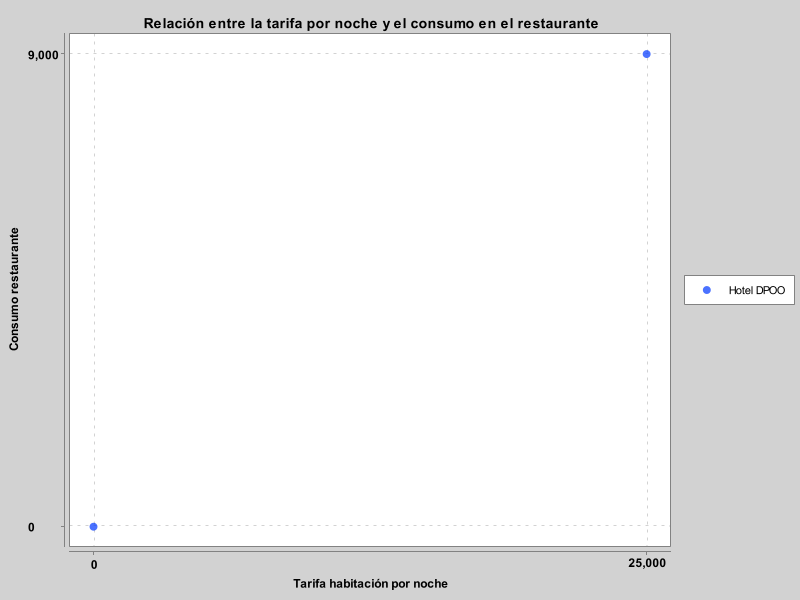
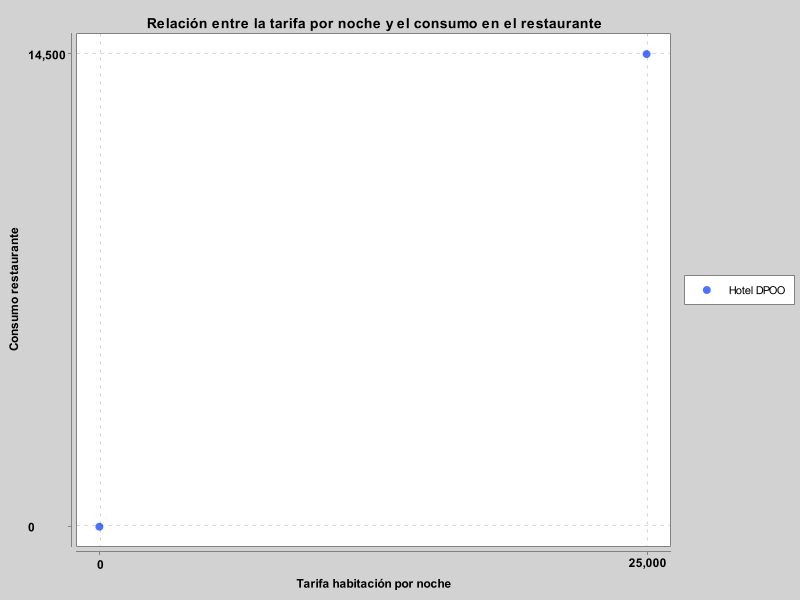
Ahora sí, felices vacaciones!

diff --git a/Entrega Final/Proyecto1_Hotel/src/Model/Hotel.java b/Entrega Final/Proyecto1_Hotel/src/Model/Hotel.java
@@ -103,11 +103,11 @@ public class Hotel {
 	}
 	
 	public void registrarRelacion(double tarifa, double consumo) {
-		this.relacionPrecioRestauranteHabitacion.put(tarifa, consumo);
+		this.relacionPrecioRestauranteHabitacion.put(tarifa, relacionPrecioRestauranteHabitacion.get(tarifa) + consumo);
 	}
 	
 	public void registrarRelacionServicio(double tarifa, double precioServicio) {
-		this.relacionPrecioServiciosHabitacion.put(tarifa, precioServicio);
+		this.relacionPrecioServiciosHabitacion.put(tarifa, relacionPrecioServiciosHabitacion.get(tarifa) + precioServicio);
 	}
 	
 	public String escogerPasarela(String nombrePasarela) throws IOException {

diff --git a/Entrega Final/Proyecto1_Hotel/src/figuras/GraficaRelacionServiciosTarifa.java b/Entrega Final/Proyecto1_Hotel/src/figuras/GraficaRelacionServiciosTarifa.java
@@ -26,7 +26,7 @@ public class GraficaRelacionServiciosTarifa {
         
         for (double tarifa: llaves) {
         	tarifas.add(tarifa);
-        	consumos.add(hotel.getRelacion().get(tarifa));
+        	consumos.add(hotel.getRelacionServicio().get(tarifa));
         }
         
         XYChart chart = new XYChartBuilder().width(800).height(600).build();
